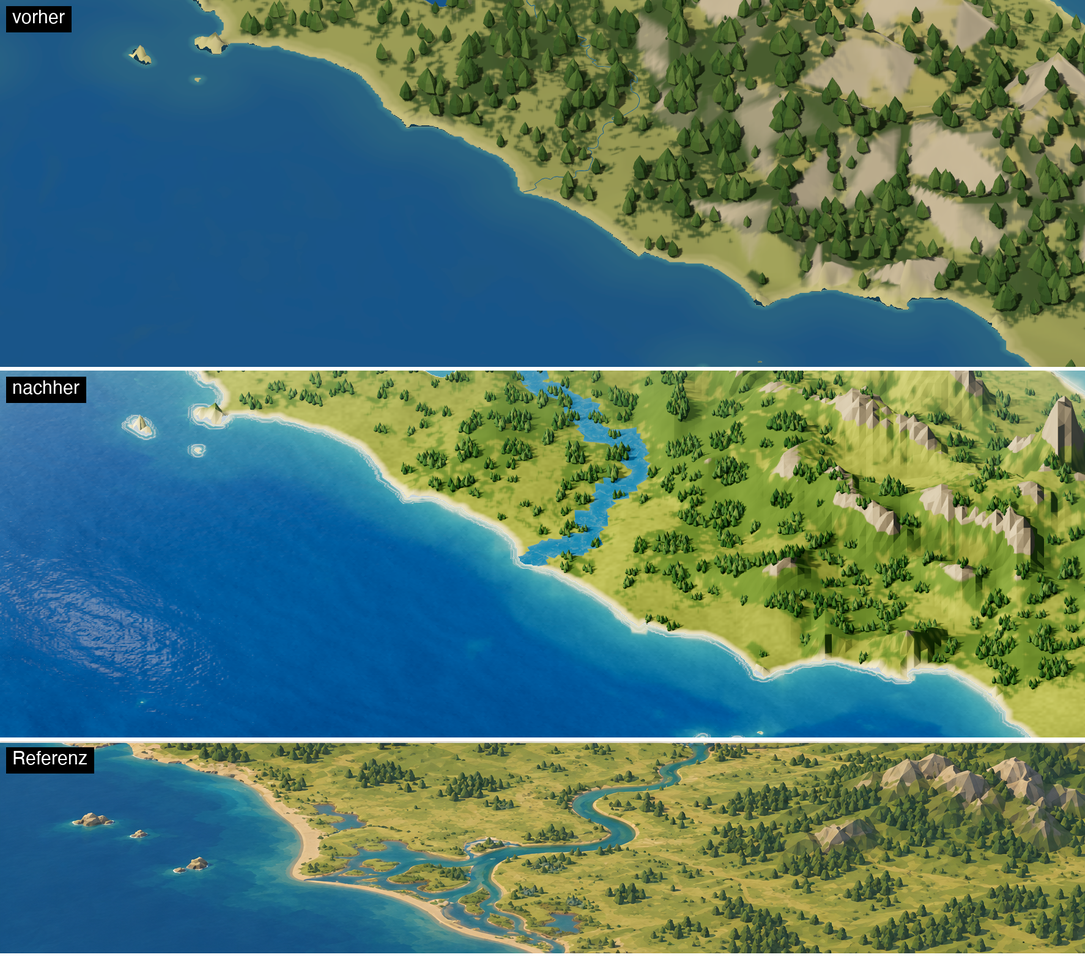
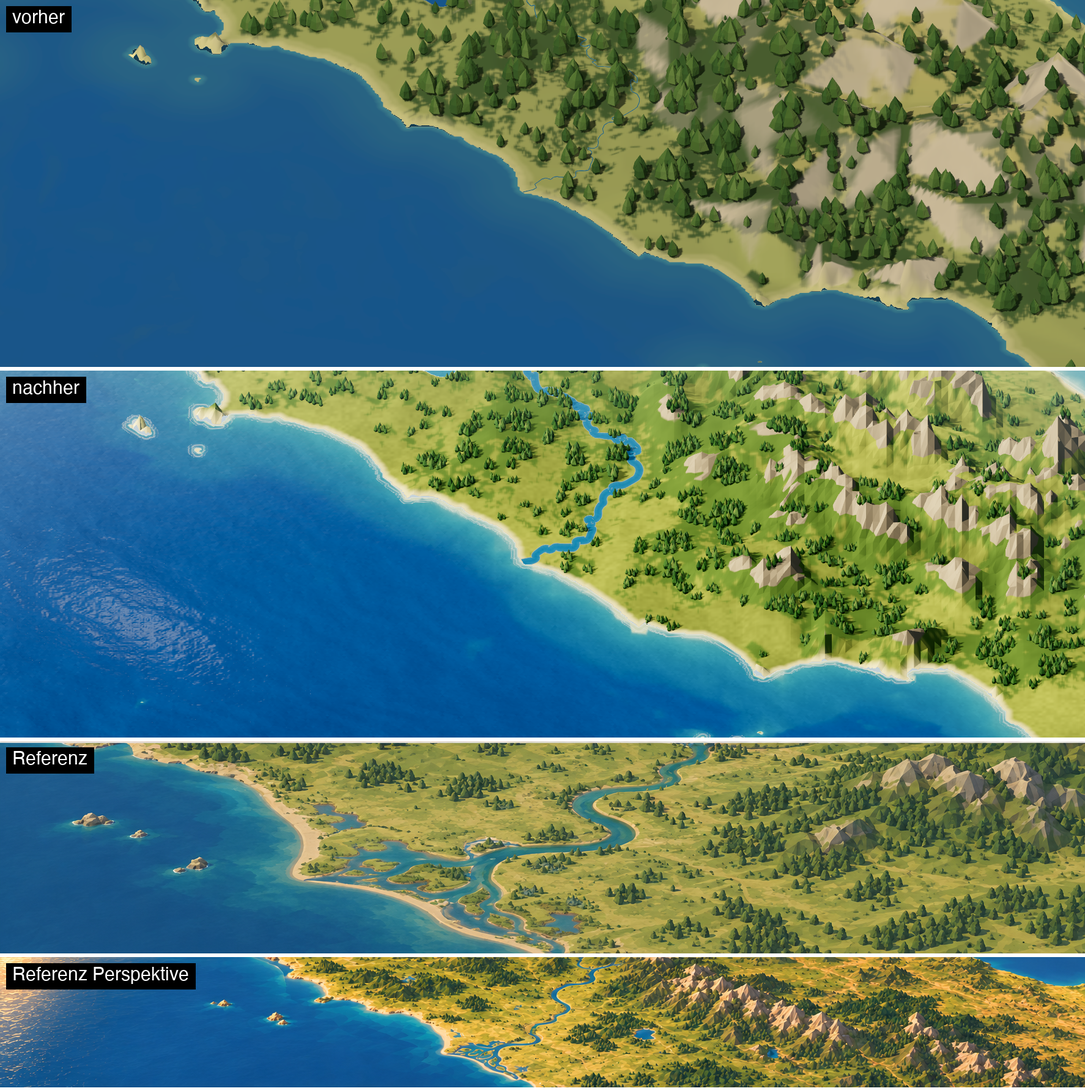
Mountain chains of small pyramid peaks, lowland hills, smooth continuous rivers
- build_mountain_facet_surface.py r2: logarithmic height compression in
  relief areas (no striped walls under the 12x display scale), jittered
  lattice of small pyramid peaks weighted to crests, gentle low-poly hills on
  open land (flat lakes/deltas and coast excluded). Atlas
  fixed-source-v2-mountain-r2, forest layout rebuilt (groves-r3).
- Rock on crests from 350 m.
- Rivers: source segments chained per feature, Chaikin-smoothed centreline,
  one continuous strip (no overlapping pieces), ~60% width, soft bank edge.
- Smaller turquoise halos and surf rings around small islands.
- Comparisons include the perspective reference strip.

diff --git a/tools/build_mountain_facet_surface.py b/tools/build_mountain_facet_surface.py
@@ -17,6 +17,10 @@ parser.add_argument('--macro-dir', default='artifacts/render-data/fixed-source-v
 parser.add_argument('--base-dir', default='artifacts/render-data/fixed-source-v2-base-r1')
 parser.add_argument('--output', default='artifacts/render-data/fixed-source-v2-mountain-r1')
 parser.add_argument('--ridge-gain', type=float, default=0.7)
+parser.add_argument('--compress-m', type=float, default=1900.0)
+parser.add_argument('--peak-spacing', type=float, default=3.5, help='grid nodes (2 km)')
+parser.add_argument('--peak-height', type=float, default=780.0)
+parser.add_argument('--hill-m', type=float, default=45.0)
 args = parser.parse_args()
 MACRO, BASE, OUT = ROOT / args.macro_dir, ROOT / args.base_dir, ROOT / args.output
 
@@ -39,14 +43,45 @@ relief = ndimage.maximum_filter(base, 7) - ndimage.minimum_filter(base, 7)
 land = macro > 0.5
 # Fade out over 3..12 grid nodes (6..24 km) from water: no coastal walls.
 water_distance = ndimage.distance_transform_edt(land)
-mask = smooth(relief, 300, 1100) * smooth(macro, 250, 900) * smooth(water_distance, 3, 12)
+mask = smooth(relief, 220, 900) * smooth(macro, 180, 700) * smooth(water_distance, 3, 12)
 mask = ndimage.gaussian_filter(mask, 2.0) * (water_distance > 2)
 # Ridge sharpening: boost the 6 km band-pass of the base grid, more on crests.
 low = ndimage.gaussian_filter(base, 3.0)
 detail = base - low
 crest = np.where(detail > 0, detail * (1 + 0.5 * args.ridge_gain), detail * 0.8)
 mountain = low + detail + args.ridge_gain * crest
+# Logarithmic height compression in relief areas: the 12x display scale
+# otherwise turns 2 km grid steps into near-vertical striped walls.
+H0 = args.compress_m
+mountain = H0 * np.log1p(np.maximum(mountain, 0) / H0)
+# Chains of many small pyramid peaks on a jittered lattice, strongest on
+# crests (positive band-pass), as in the reference.
+rng = np.random.default_rng(20261026)
+S = args.peak_spacing
+h, w = base.shape
+gy, gx = np.mgrid[0:h, 0:w].astype(np.float32)
+cy, cx = np.floor(gy / S), np.floor(gx / S)
+peaks = np.zeros_like(base)
+for oy in (-1, 0, 1):
+    for ox in (-1, 0, 1):
+        ky, kx = cy + oy, cx + ox
+        seed = (ky * 7919 + kx * 104729).astype(np.int64) % 1000003
+        jy = (np.sin(seed * 12.9898) * 43758.5453) % 1.0
+        jx = (np.sin(seed * 78.233) * 12345.6789) % 1.0
+        amp = 0.6 + 0.4 * ((np.sin(seed * 3.7) * 9631.4) % 1.0)
+        py, px = (ky + 0.2 + 0.6 * jy) * S, (kx + 0.2 + 0.6 * jx) * S
+        cone = np.clip(1 - (np.abs(gy - py) + np.abs(gx - px)) / (0.8 * S), 0, 1) * amp
+        peaks = np.maximum(peaks, cone)
+crestness = smooth(detail, -60, 160)
+mountain = mountain + args.peak_height * peaks * (0.35 + 0.65 * crestness) * smooth(mountain, 300, 900)
 result = macro * (1 - mask) + mountain * mask
+# Gentle low-poly hills on open land; flat areas (lakes, deltas) and the
+# coast stay untouched.
+flat = (ndimage.maximum_filter(macro, 3) - ndimage.minimum_filter(macro, 3)) < 0.5
+hills = ndimage.gaussian_filter(rng.standard_normal(base.shape).astype(np.float32), 2.5)
+hills = hills / max(float(hills.std()), 1e-6)
+hill_mask = smooth(water_distance, 3, 10) * (1 - mask) * (~flat)
+result = result + args.hill_m * hills * hill_mask
 result = np.where(land, np.maximum(result, 1.0), macro)
 
 OUT.mkdir(parents=True, exist_ok=False)
@@ -57,15 +92,16 @@ packed = np.stack([code // 256, code % 256], axis=-1).astype(np.uint8)
 packed.tofile(OUT / 'height.rg8')
 sha = lambda p: hashlib.sha256(p.read_bytes()).hexdigest()
 policy = json.loads((MACRO / 'policy.json').read_text())
-policy.update({'revision': 'fixed-diorama-mountain-facets-r1',
+policy.update({'revision': 'fixed-diorama-mountain-facets-r2',
     'look_pass': 'relief areas blend the macro atlas back to the fixed 2km base grid with ridge sharpening; plains/coast/water keep macro heights',
-    'ridge_gain': args.ridge_gain, 'macro_surface_manifest_sha256': sha(MACRO / 'surface.json'),
+    'ridge_gain': args.ridge_gain, 'compress_m': args.compress_m, 'peak_spacing_nodes': args.peak_spacing,
+    'peak_height_m': args.peak_height, 'hill_m': args.hill_m, 'macro_surface_manifest_sha256': sha(MACRO / 'surface.json'),
     'base_surface_manifest_sha256': sha(BASE / 'surface.json'),
     'mountain_mask_mean': float(mask.mean()), 'height_range_source_equivalent_m': [float(result.min()), float(result.max())]})
 (OUT / 'policy.json').write_text(json.dumps(policy, indent=2) + '\n')
 m = dict(macro_m)
 m.pop('chunks', None)
-m['revision'] = 'fixed-diorama-mountain-facets-r1'
+m['revision'] = 'fixed-diorama-mountain-facets-r2'
 m['policy'] = {'path': 'policy.json', 'sha256': sha(OUT / 'policy.json')}
 m['height_payload'] = {'path': 'height.rg8', 'sha256': sha(OUT / 'height.rg8'), 'bytes': (OUT / 'height.rg8').stat().st_size}
 (OUT / 'surface.json').write_text(json.dumps(m, indent=2) + '\n')
